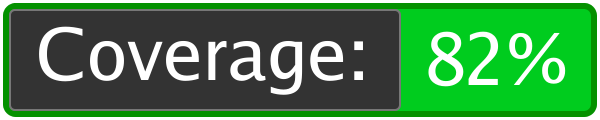
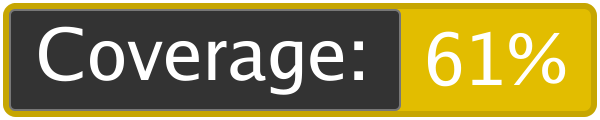
testing new image for cc

diff --git a/coverage.html b/coverage.html
@@ -56,7 +56,7 @@
 				
 				<option value="file0">ci.vikas.com/shinybadge/badge.go (97.9%)</option>
 				
-				<option value="file1">ci.vikas.com/shinybadge/main.go (58.1%)</option>
+				<option value="file1">ci.vikas.com/shinybadge/main.go (3.2%)</option>
 				
 				<option value="file2">ci.vikas.com/shinybadge/util.go (100.0%)</option>
 				
@@ -174,19 +174,19 @@ import (
 func Sum(i, j int) int <span class="cov8" title="1">{
         return i + j
 }</span>
-func getCommandOutput(commandString string) chan float64 <span class="cov8" title="1">{
+func getCommandOutput(commandString string) chan float64 <span class="cov0" title="0">{
         cmd := exec.Command("bash", "-c", commandString)
         cmd.Stderr = os.Stderr
         stdout, err := cmd.StdoutPipe()
         if nil != err </span><span class="cov0" title="0">{
                 log.Fatalf("Error obtaining stdout: %s", err.Error())
         }</span>
-        <span class="cov8" title="1">reader := bufio.NewReader(stdout)
+        <span class="cov0" title="0">reader := bufio.NewReader(stdout)
         coverageFloatChannel := make(chan float64)
-        go func(reader io.Reader) </span><span class="cov8" title="1">{
+        go func(reader io.Reader) </span><span class="cov0" title="0">{
                 re := regexp.MustCompile("cover(?:ed|(?:age))*:? *(\\d+\\.?\\d*) *%")
                 scanner := bufio.NewScanner(reader)
-                for scanner.Scan() </span><span class="cov8" title="1">{
+                for scanner.Scan() </span><span class="cov0" title="0">{
                         lineText := scanner.Text()
                         match := re.FindStringSubmatch(lineText)
                         if len(match) == 2 </span><span class="cov0" title="0">{
@@ -198,15 +198,15 @@ func getCommandOutput(commandString string) chan float64 <span class="cov8" titl
                                         coverageFloatChannel &lt;- coverageValue
                                 }</span>
                                 <span class="cov0" title="0">break</span>
-                        } else<span class="cov8" title="1"> {
+                        } else<span class="cov0" title="0"> {
                                 fmt.Println(lineText)
                         }</span>
                 }
         }(reader)
-        <span class="cov8" title="1">if err := cmd.Start(); nil != err </span><span class="cov0" title="0">{
+        <span class="cov0" title="0">if err := cmd.Start(); nil != err </span><span class="cov0" title="0">{
                 log.Fatalf("Error starting program: %s, %s", cmd.Path, err.Error())
         }</span>
-        <span class="cov8" title="1">cmd.Wait()
+        <span class="cov0" title="0">cmd.Wait()
         return coverageFloatChannel</span>
 }
 func main() <span class="cov0" title="0">{

diff --git a/main_test.go b/main_test.go
@@ -14,7 +14,7 @@ func TestCSum(T *testing.T) {
 	}
 }
 func TestGetCommandOutput(t *testing.T) {
-	getCommandOutput("echo test")
+	//getCommandOutput("echo test")
 	//getCommandOutput("echo 'testline\ncoverage: 35%'")
 }
 
